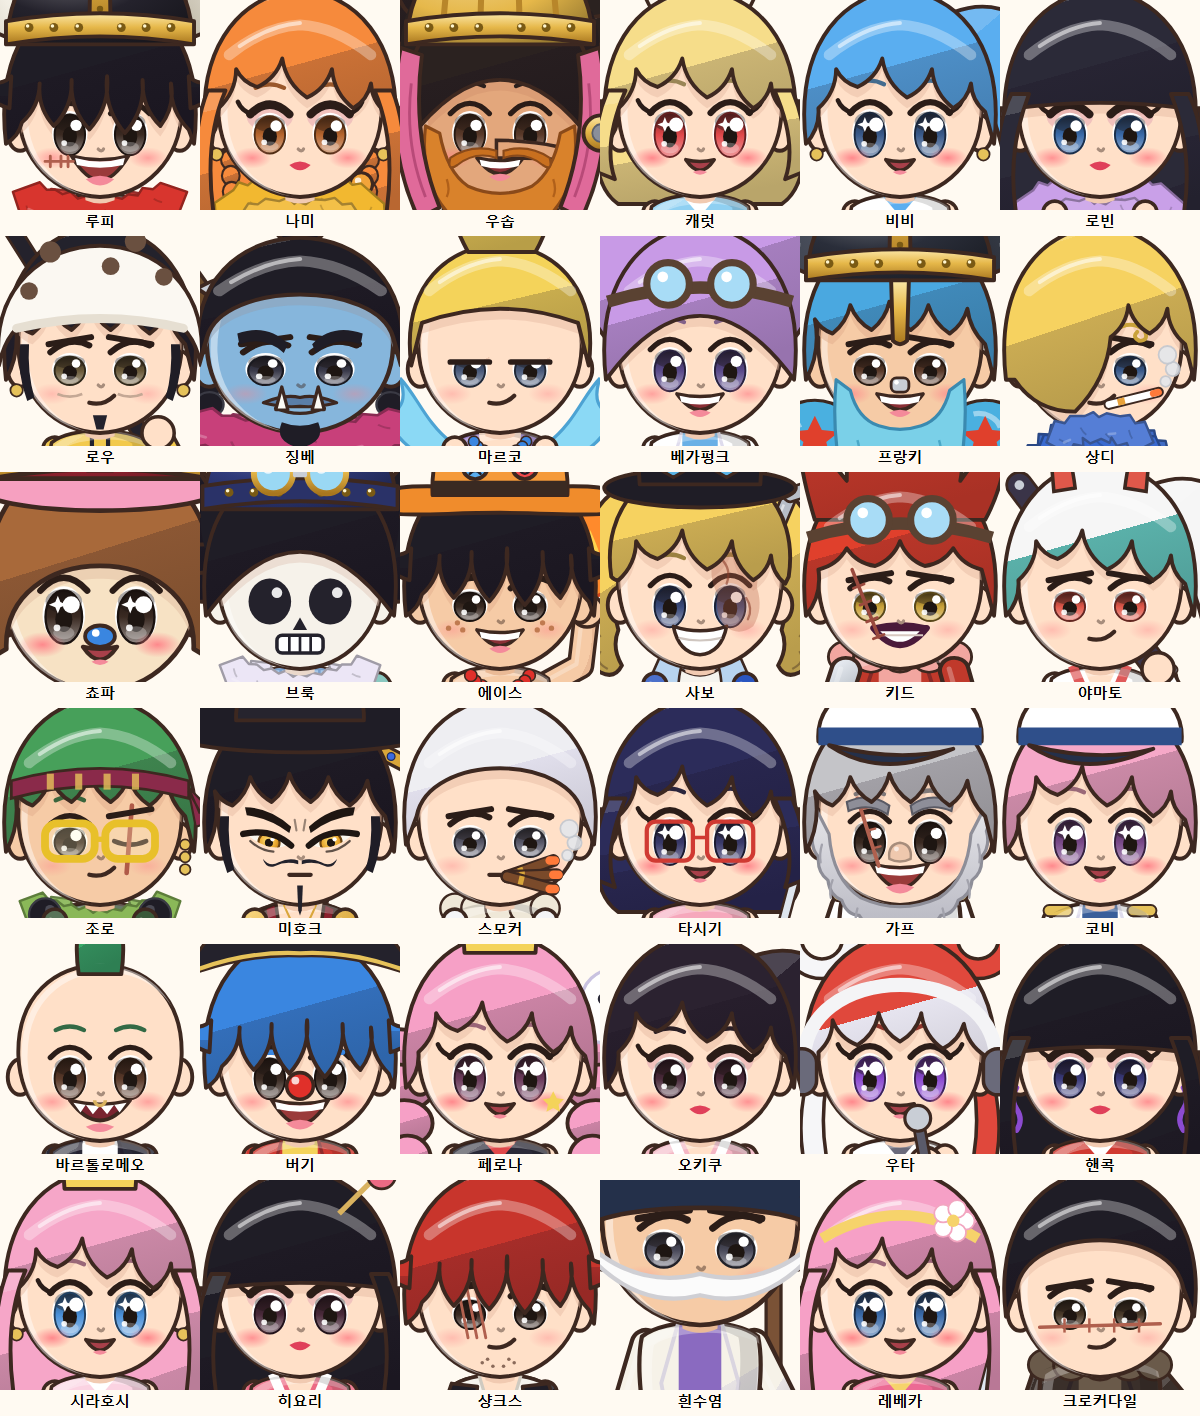
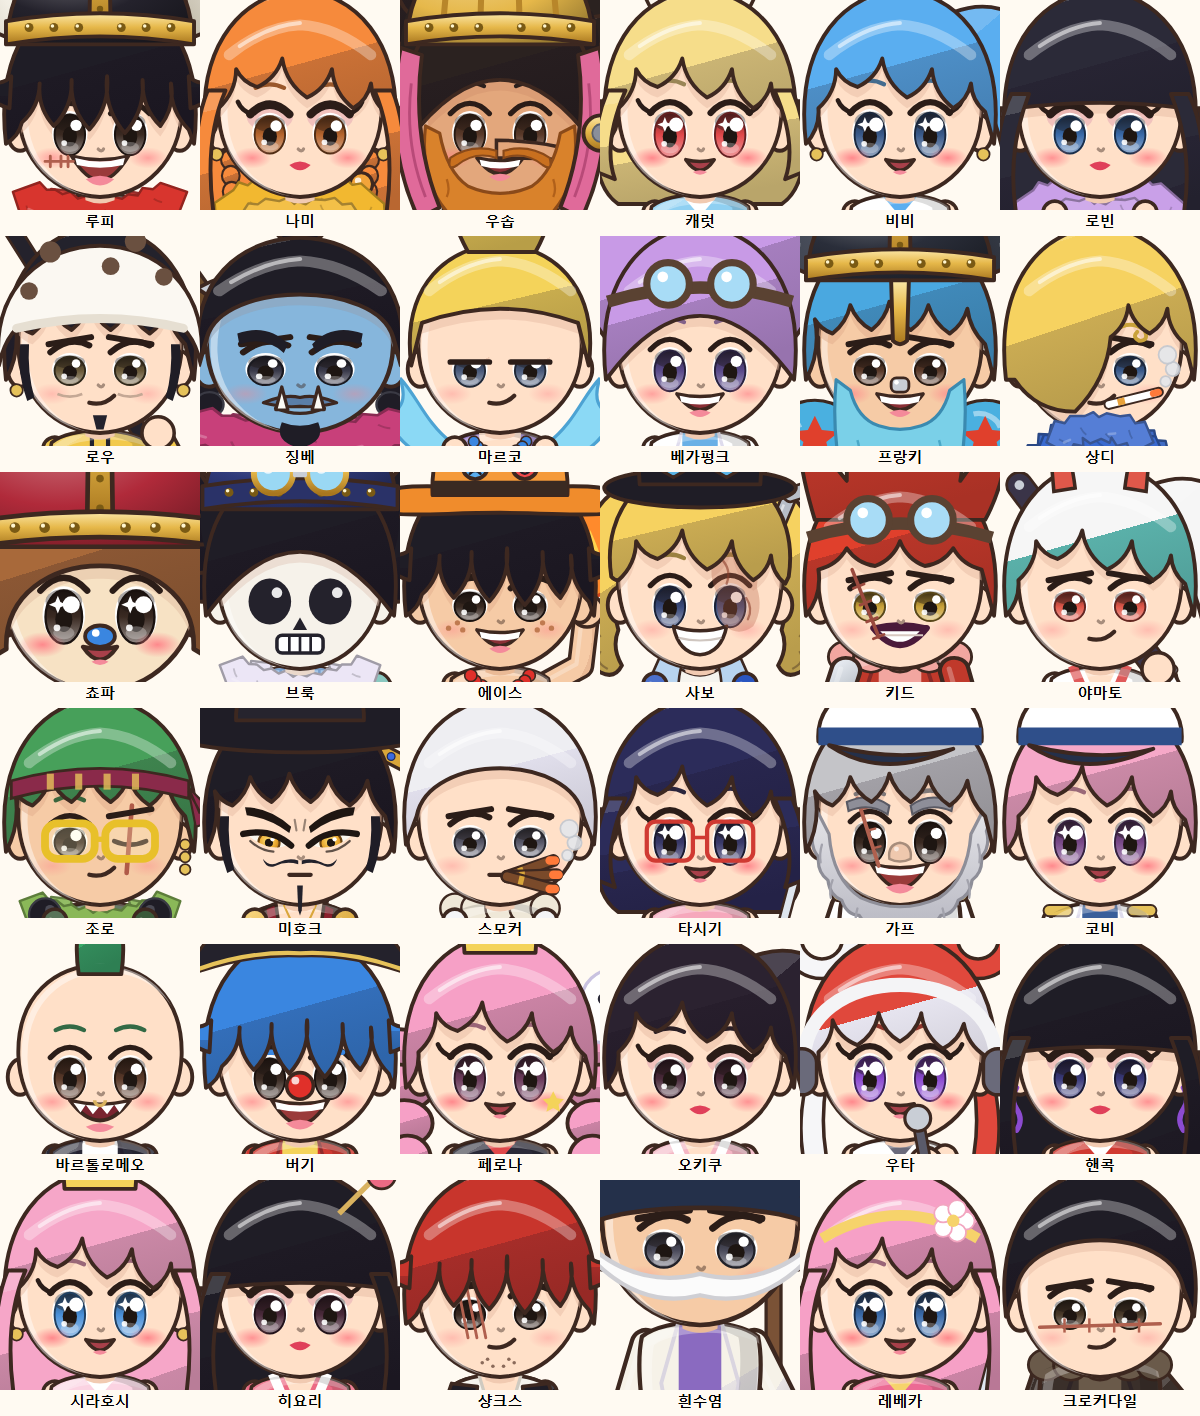
원피스직원 v3: 쵸파 투구 푹 눌러씀(눈 위까지 · 분홍 모자 삭제 · 손 모양 뿔 함께 내림) · 오피스 그림 다시 생성

Changed region(s): [[0.0, 0.3107, 0.185, 0.404]]

diff --git a/jugansa/ai-office/ai-jugansa/design/skins/원피스직원_v3/svg_chars.py b/jugansa/ai-office/ai-jugansa/design/skins/원피스직원_v3/svg_chars.py
@@ -965,15 +965,15 @@ def elbaf_hat(lk):
         horns = "".join(f'<path d="M {sx * 44},-82 L {sx * 92},-108 L {sx * 50},-62 Z" fill="#efe2b8" {S}/><path d="M {sx * 56},-80 L {sx * 84},-102" stroke="#c9b884" stroke-width="1.6"/>' for sx in (-1, 1))
         gog = "".join(f'<circle cx="{sx * 15}" cy="-66" r="11" fill="#9ad8f4" stroke="{gold}" stroke-width="3.4"/><circle cx="{sx * 15 - 3}" cy="-69" r="3" fill="#ffffff" opacity=".8"/>' for sx in (-1, 1))
         return G + horns + dome("#2f3a7a", top=-122, w=54, yb=-46) + band("#2a3268", yb=-46, w=55) + gog + '<rect x="-4" y="-69" width="8" height="5" rx="1.5" fill="#c9ced6"/>'
-    if h == "chopper_elbaf":      # 분홍 모자 위 빨간 큰 투구 · 손바닥에서 솟은 금빛 손가락 뿔
+    if h == "chopper_elbaf":      # 빨간 큰 투구를 눈 위까지 푹 (분홍 모자 없음) · 손바닥에서 솟은 금빛 손가락 뿔
+        yb, dy = -24, 26
         ant = ""
         for sx in (-1, 1):
-            px = sx * 60
-            ant += "".join(f'<rect x="{px + sx * (k * 8 - 12) - 3.6:.1f}" y="{-124 + abs(k - 1.5) * 5:.1f}" width="7.2" height="{50 - abs(k - 1.5) * 5:.1f}" rx="3.6" fill="#e0c878" {S}/>' for k in range(4))
-            ant += f'<path d="M {px - 18},-92 L {px + 18},-92 L {px + 14},-70 L {px - 14},-70 Z" fill="#8a5530" {S}/>'
-            ant += "".join(f'<rect x="{px + sx * (k * 8 - 12) - 3.6:.1f}" y="-96" width="7.2" height="6" fill="#8a5530"/>' for k in range(4))
-        return (G + ant + f'<ellipse cx="0" cy="-52" rx="58" ry="11" fill="#f6a0c0" {S}/>' + dome("#b02a3a", top=-130, w=50, yb=-56)
-                + strip(top=-126, yb=-60) + band(yb=-56, w=51, hgt=10))
+            px = sx * 62
+            ant += "".join(f'<rect x="{px + sx * (k * 8 - 12) - 3.6:.1f}" y="{-124 + dy + abs(k - 1.5) * 5:.1f}" width="7.2" height="{50 - abs(k - 1.5) * 5:.1f}" rx="3.6" fill="#e0c878" {S}/>' for k in range(4))
+            ant += f'<path d="M {px - 18},{-92 + dy} L {px + 18},{-92 + dy} L {px + 14},{-68 + dy} L {px - 14},{-68 + dy} Z" fill="#8a5530" {S}/>'
+            ant += "".join(f'<rect x="{px + sx * (k * 8 - 12) - 3.6:.1f}" y="{-96 + dy}" width="7.2" height="6" fill="#8a5530"/>' for k in range(4))
+        return (G + ant + dome("#b02a3a", top=-112, w=57, yb=yb) + strip(top=-108, yb=yb - 12) + band(yb=yb, w=58, hgt=12))
     return ""
 
 ELBAF = {   # 이름 → 엘바프 편 차림 (공식 설정화 기준)
